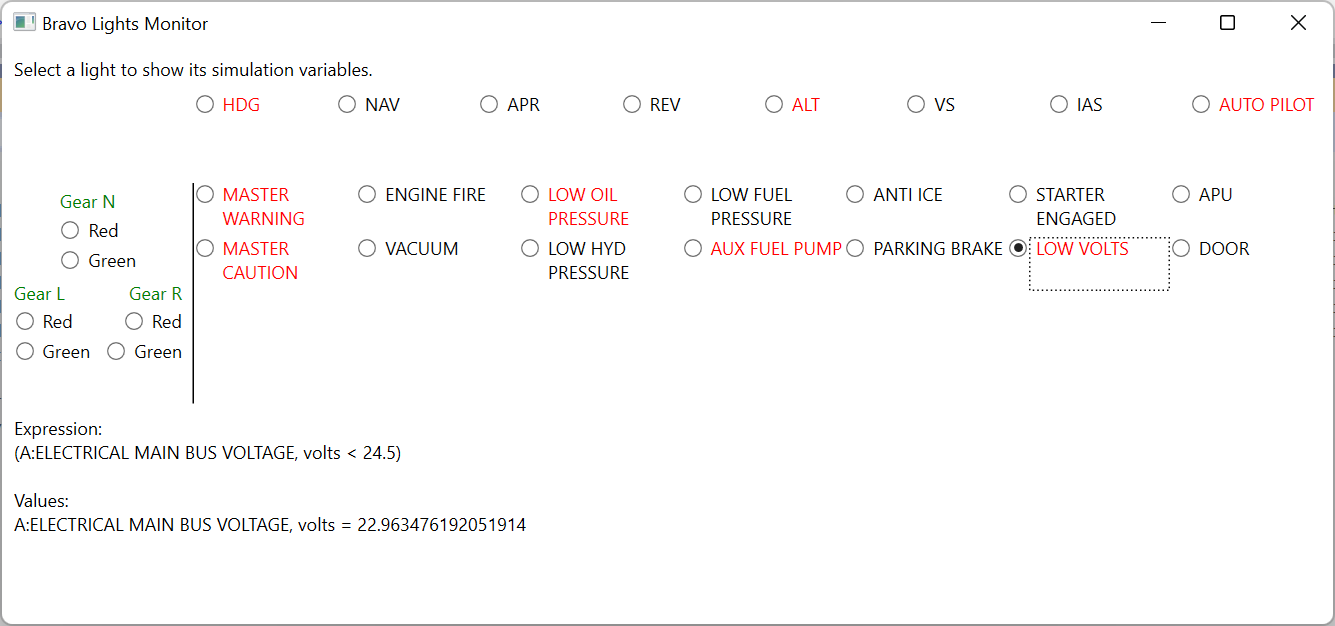
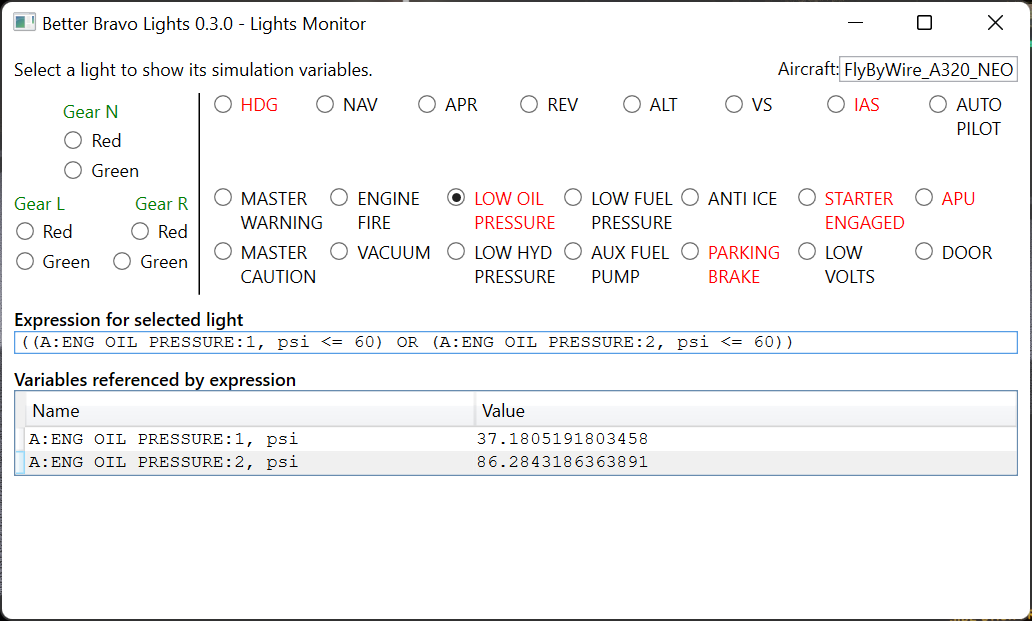
Update documentation for 0.3.0

diff --git a/index.md b/index.md
@@ -68,11 +68,38 @@ If you make some useful configuration entries, please send submit an issue/PR an
 
 The configuration file is a standard [.ini file](https://en.wikipedia.org/wiki/INI_file).
 
-- Lines starting with a semicolon (;) are treated as comments and are ignored
-- Each section is delimited with a section name in square brackets, e.g. `[Default]`
+### Comments
+
+- Lines starting with a semicolon (`;`) are treated as comments and are ignored
+
+### Sections
+
+- The configuration file is broken up into sections, each delimited with a section name in square brackets, e.g. `[Default]`
 - Configuration for an aircraft is in a section named `[Aircraft.<aircraftname>]`
-  - e.g. `[Aircraft.Asobo_TBM930]` or `[Aircraft.Asobo_Pitts]`
-- Light configurations in the `[Default]` section apply to every aircraft unless an aircraft overrides a light
+  - For instance: `[Aircraft.Asobo_TBM930]` or `[Aircraft.Asobo_Pitts]`
+- (New in v0.3.0) In an extension to standard `.ini` syntax, you can define multiple sections at the same time, to reduce duplication, by comma-separating the section names.
+
+  For instance:
+
+  ```ini
+  [Aircraft.Aircraft1, Aircraft.Aircraft2]
+  Light1 = A:SOME VARIABLE, bool == 1
+  Light2 = A:OTHER VARIABLE, bool == 1
+  ```
+
+  is the same as writing
+
+  ```ini
+  [Aircraft.Aircraft1]
+  Light1 = A:SOME VARIABLE, bool == 1
+  Light2 = A:OTHER VARIABLE, bool == 1
+  [Aircraft.Aircraft2]
+  Light1 = A:SOME VARIABLE, bool == 1
+  Light2 = A:OTHER VARIABLE, bool == 1
+  ```
+
+- (New in v0.3.0) The same section name can appear multiple times. Sections with the same name will be merged.
+- Configuration in the section named `[Default]` automatically apply to every aircraft unless an aircraft overrides a light
 - Each light setting line is of the format
   - `lightname = expression`
 - Expression types:
@@ -159,9 +186,10 @@ In the above picture we can see:
 
 - several autopilot and annunciator lights are lit
 - all of the gear lights are green
-- we've selected the LOW VOLTS light to find out what's driving that light
-  - we can see the light is using the expression `(A:ELECTRICAL MAIN BUS VOLTAGE, volts < 24.5)`
-  - we can see the current value of `A:ELECTRICAL MAIN BUS VOLTAGE, volts` is 22.96. This is less than 24.5, which is why the light is lit
+- we've selected the LOW OIL PRESSURE light to find out why the light is lit
+  - we can see the light is using the expression `(A:ENG OIL PRESSURE:1, psi <= 60) OR (A:ENG OIL PRESSURE:2, psi <= 60)`
+  - we can see the current value of `A:ENG OIL PRESSURE:1, psi` is 37.18. This is less than 60, which is why the light is lit
+  - (that is, engine 2's oil is fine but we have a leak on engine 1, so we want the light lit)
 
 # FAQ
 

diff --git a/corrupt-exe-xml.md b/corrupt-exe-xml.md
@@ -13,6 +13,8 @@ In order for Better Bravo Lights to install itself properly - by arranging for i
 
 That's certainly an option BUT this corrupted file will prevent other programs - not just Better Bravo Lights - from installing into MSFS correctly, and may indeed already have broken some installations. You need to fix it whether or not you're installing Better Bravo Lights.
 
+(Also, you _can_ run BetterBravoLights without installing it, but you'd need to start it manually.)
+
 ## So what do I do?
 
 You've a few options to fix your `exe.xml` file:
